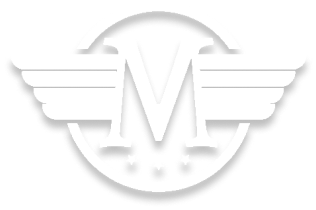
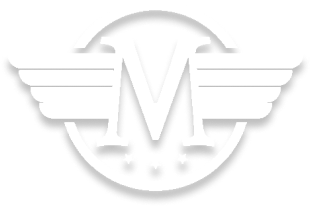
began working on nav

diff --git a/components/Nav.module.css b/components/Nav.module.css
@@ -1,11 +1,84 @@
 .navContainer {
     background: #121212;
-    width: 1440px;
     height: 181px;
     border-bottom: 3px solid #740000;
+    
 }
 
 .logo {
+    max-width: 100%;
+    
+}
+
+.logo img {
     width: 150px;
     height: 96.61px;
+    max-width: 100%;  
+    padding: 40px 42px;
+}
+
+.navContent {
+    display: flex;
+    justify-content: space-between;
+    align-items: center;
+    flex-direction: row;
+}
+
+.text {
+   text-align: center;
+   position: relative;
+   left:-40%;
+}
+
+.text h2 {
+    font-family: 'Zilla Slab';
+    font-style: normal;
+    font-weight: 400;
+    font-size: 34px;
+    line-height: 41px;
+    color: #EAEAEA;
+}
+
+.text h3 {
+    font-family: 'Zilla Slab';
+    font-style: normal;
+    font-weight: 400;
+    font-size: 32px;
+    line-height: 38px;
+    color: #EAEAEA;
+}
+
+@media only screen and (max-width: 768px) {
+    .navContainer {
+        height: 281px;
+    }
+
+    .navContent {
+        flex-direction: column;
+    }
+
+    .logo{
+        margin-right: 0;
+        margin-bottom: -40px;
+        text-align: center;
+    }
+
+    .text {
+        text-align: center;
+        position: relative;
+        left: 0;
+    }
+
+    .text h2 {
+        /* padding-bottom:20px; */
+        color: #EAEAEA;
+       
+    }
+    
+    .text h3 {
+        color: #EAEAEA;
+    }
+    
+ 
+  
 }

diff --git a/components/Nav.tsx b/components/Nav.tsx
@@ -3,7 +3,16 @@ import styles from './Nav.module.css';
 export default function Nav() {
     return (
         <div className={styles.navContainer}>
-            <img className={styles.logo} src='/images/image8.png' />
+            <div className={styles.navContent}>
+                <div className={styles.logo}>
+                <img src='/images/image8.png' />
+                </div>
+                <div className={styles.text}>
+                <h2>Modern Life Dating</h2>
+                 <h3>Video Archive</h3>
+                </div>
+            </div>
+            
         </div>
     )
 }
